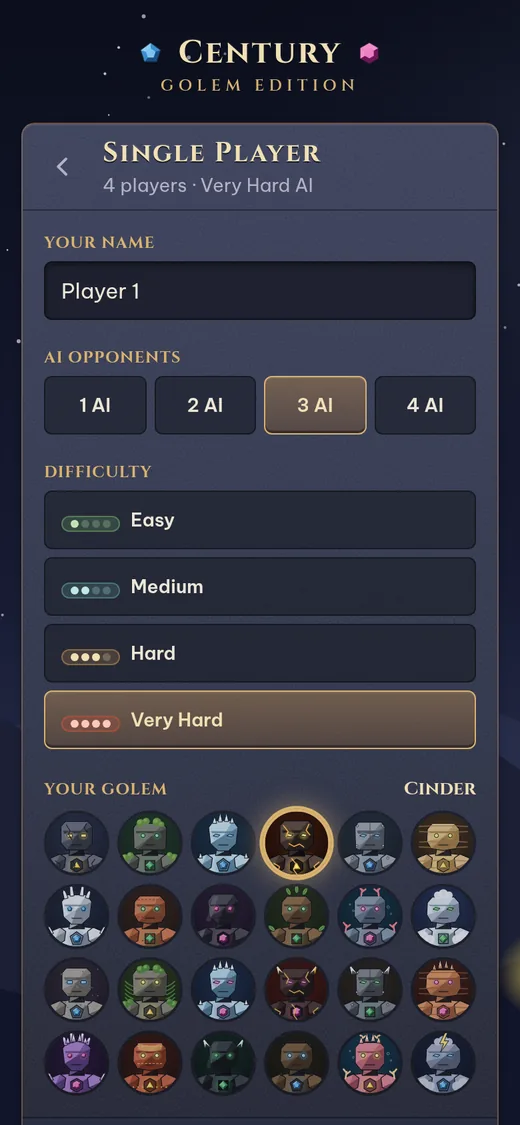
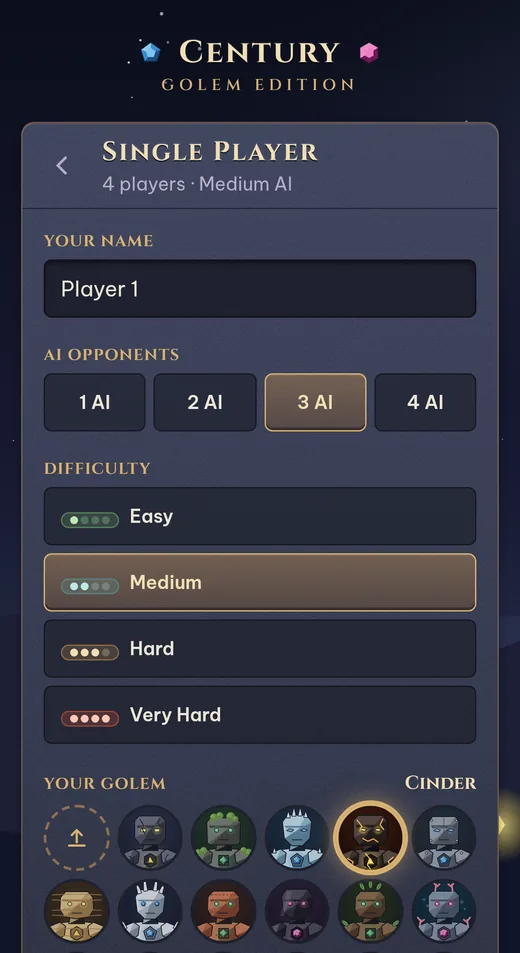
docs(readme): phone section with current screenshots and use cases

diff --git a/README.md b/README.md
@@ -34,7 +34,7 @@ Play solo against 1–4 AI opponents or with up to 5 friends, right in the brows
 <img alt="Status: live" src="https://img.shields.io/badge/status-live-22c55e?style=flat-square"/>
 </p>
 
-<p><a href="#-features">Features</a> • <a href="#-screenshots">Screenshots</a> • <a href="#-how-to-play">How to play</a> • <a href="#-quick-start">Quick start</a> • <a href="#-architecture">Architecture</a> • <a href="#-configuration">Configuration</a> • <a href="#-operations">Operations</a> • <a href="#-credits--disclaimer">Credits</a></p>
+<p><a href="#-features">Features</a> • <a href="#-screenshots">Screenshots</a> • <a href="#-on-your-phone">On your phone</a> • <a href="#-how-to-play">How to play</a> • <a href="#-quick-start">Quick start</a> • <a href="#-architecture">Architecture</a> • <a href="#-configuration">Configuration</a> • <a href="#-operations">Operations</a> • <a href="#-credits--disclaimer">Credits</a></p>
 
 <img src="docs/assets/screenshots/board.webp" alt="Desktop board in the Stone &amp; Crystal style: player plaques with points, the market and golem rows with the cards you can take glowing, and your hand with the Your turn ribbon" width="100%"/>
 
@@ -66,11 +66,12 @@ Play solo against 1–4 AI opponents or with up to 5 friends, right in the brows
 - **One "Stone & Crystal" look** on every screen: carved-stone panels, parchment popups, bronze buttons, a night-mountain backdrop
 - **Colour-blind friendly crystals**: each colour has its own shape (▲ yellow, ◆ green, ⬟ blue, ⬢ pink)
 - **Helpful board**: cards you can take or claim glow, hovering (or tapping on a phone) shows what a card does, popups pick the cheapest crystals for you and warn before you go over 10
-- **Phone-first mobile layout** (portrait and landscape): big touch targets, tap a card to see it and act, safe areas for notches
+- **Made for phones** (portrait and landscape): the **whole game on one screen** with every player in turn order (who opens and closes the round, and where you sit), and nothing scrolls except your own hand; tap any card to see it large and act. See [📱 On your phone](#-on-your-phone)
+- **See what everyone just did**: on a phone, an opponent's card pops up under their chip as they play it; tap the chip for their last moves and the cards they played since their last rest. The activity timeline shows the last 30 moves with card thumbnails, next to the chat
 - **24 original golem avatars** drawn for this project; AI opponents wear random ones and are named after them (Basalt, Mossback, Rime…)
 - **Your own picture as avatar** in both modes: pick an image (≤ 5 MB), drag/zoom it into the circle; it is shrunk to 256 px in the browser, re-encoded on the server (metadata removed) and **deleted with the room** — never stored
 - **Undo** an overflowing card play from the discard popup; **reconnect banner** keeps the board on screen if the connection drops
-- **Sound effects** for your turn, plays, purchases, golem claims, rests, the last round and game over
+- **Sound effects** for your turn, plays, purchases, golem claims, rests, the last round and game over, and a **victory celebration** with a fanfare when you win
 
 </td>
 </tr>
@@ -101,16 +102,67 @@ Play solo against 1–4 AI opponents or with up to 5 friends, right in the brows
 
 <table>
 <tr>
-<td align="center" width="50%"><img src="docs/assets/screenshots/menu.webp" alt="Main menu: the Century wordmark over night mountains and two stone tiles, Single Player and Multiplayer"/><br/><sub><b>Main menu</b>: Single Player or Multiplayer</sub></td>
-<td align="center" width="25%"><img src="docs/assets/screenshots/difficulty.webp" alt="Single-player lobby on a phone: name, number of AIs, difficulty with level dots and the golem avatar grid"/><br/><sub><b>Lobby</b>: 1–4 AIs, Easy → Very Hard, pick a golem</sub></td>
-<td align="center" width="25%"><img src="docs/assets/screenshots/mobile.webp" alt="Mobile board: player chips, Your turn banner, swipeable golem row, market and the hand at the bottom"/><br/><sub><b>Mobile</b>: the whole board on a phone</sub></td>
-</tr>
-<tr>
-<td align="center"><img src="docs/assets/screenshots/details.webp" alt="Hovering a market card shows a stone popover with the card large, its trade and what it costs to take"/><br/><sub><b>Card details</b> on hover (desktop)</sub></td>
-<td align="center"><img src="docs/assets/screenshots/popup.webp" alt="Place Crystals popup on parchment with the cheapest crystals already chosen"/><br/><sub><b>Buying</b>: cheapest crystals pre-picked</sub></td>
-<td align="center"><img src="docs/assets/screenshots/mobile-sheet.webp" alt="On a phone, tapping a golem opens a sheet with the card, its cost, points and coin, and a Claim button"/><br/><sub><b>Tap a card</b> to see it and act</sub></td>
+<td align="center" width="34%"><img src="docs/assets/screenshots/menu.webp" alt="Main menu: the Century wordmark over night mountains and two stone tiles, Single Player and Multiplayer"/><br/><sub><b>Main menu</b>: Single Player or Multiplayer</sub></td>
+<td align="center" width="33%"><img src="docs/assets/screenshots/details.webp" alt="Hovering a market card shows a stone popover with the card large, its trade and what it costs to take"/><br/><sub><b>Card details</b> on hover (desktop)</sub></td>
+<td align="center" width="33%"><img src="docs/assets/screenshots/popup.webp" alt="Place Crystals popup on parchment with the cheapest crystals already chosen"/><br/><sub><b>Buying</b>: cheapest crystals pre-picked</sub></td>
 </tr>
 </table>
+
+## 📱 On your phone
+
+The phone layout was tuned on an **iPhone 15 Pro in Safari**, including the floating toolbar of iOS 26, and is also checked
+at Android sizes in Chrome. **The whole game fits one screen**: the top bar, every player in turn order (you included), the golems,
+the market and your hand. Only your
+own hand scrolls, sideways. Card sizes are worked out from the space you can actually see, so nothing hides under the toolbar
+or the notch.
+
+<table>
+<tr>
+<td align="center" width="25%"><img src="docs/assets/screenshots/mobile.webp" alt="Phone board: top bar with round, Your turn 56s, sound and activity buttons; four player chips in turn order numbered 1 to 4, yours second with a bronze number and outline, each with points, golems, cards in hand and played, crystals; five golems and six market cards in one row each, the ones you can take marked with a check; your crystals 4/10, golems, Rest and played buttons above your hand"/><br/><sub><b>Your turn</b>: everyone in turn order, golems, market and hand on one screen</sub></td>
+<td align="center" width="25%"><img src="docs/assets/screenshots/mobile-moves.webp" alt="While an AI thinks, the merchant card another opponent just took pops up under their chip with the word took"/><br/><sub><b>Live moves</b>: the card an opponent just played or took pops up under them</sub></td>
+<td align="center" width="25%"><img src="docs/assets/screenshots/mobile-player.webp" alt="Sheet for opponent Amethyst: points, golems, cards in hand and played, crystals, then Last moves (Took, Claimed a golem, Played, with card pictures and what each card does) and Played since last rest"/><br/><sub><b>Tap an opponent</b>: their last moves and the cards they played since resting</sub></td>
+<td align="center" width="25%"><img src="docs/assets/screenshots/mobile-sheet.webp" alt="Tapping market card 2 opens a sheet with the card large, what it does, the rule to place one crystal on each card to its left, and a Place 1 and take button"/><br/><sub><b>Tap a card</b>: what it does and the one action you can take</sub></td>
+</tr>
+<tr>
+<td align="center"><img src="docs/assets/screenshots/difficulty.webp" alt="Single-player lobby on a phone: name, 1 to 4 AI opponents, difficulty Easy to Very Hard with level dots, and the golem avatar grid with an upload tile for your own picture"/><br/><sub><b>Lobby</b>: 1–4 AIs, Easy → Very Hard, a golem or your own picture</sub></td>
+<td align="center" colspan="2"><img src="docs/assets/screenshots/mobile-landscape.webp" alt="Phone held sideways: top bar, golems and market on the left; the four numbered player chips and your hand on the right"/><br/><sub><b>Sideways</b>: board on the left, opponents and your hand on the right</sub></td>
+<td align="center"><img src="docs/assets/screenshots/mobile-activity.webp" alt="Activity sheet: room ID with a Copy button, a timeline of moves with card thumbnails and what each card does, and a chat box"/><br/><sub><b>Activity</b>: the last 30 moves with cards, chat, room ID</sub></td>
+</tr>
+</table>
+
+| I want to… | On the phone |
+|:--|:--|
+| Know whose turn it is | The top bar says **Your turn** with your seconds left, or *Waiting for …* / *… is thinking*. The player to move glows and their portrait ring pulses; people (not AIs) get a timer ring |
+| See the turn order | Every player, **you included**, sits in one row in the order of play: left to right, each portrait numbered **1** (opens the round) to the last (closes it). Your number is bronze and your chip has a bronze outline. In the last round, players who already had their final turn are dimmed |
+| Check my opponents | Each chip shows **★ points**, golems, cards in hand, cards played and the 4 crystals; chips get denser as the table fills, so all 5 players fit a phone |
+| See what someone just did | Their card pops up under their chip for about 3 seconds (*played*, *took*, *claimed*). Rests show as *"… rested · took back n cards"*. Touch anywhere to dismiss |
+| Look back at a player's moves | **Tap their chip**: their last moves with card pictures and what each card does, every card they played since their last rest (newest first) and their golems |
+| Take a merchant card | Tap it in the Market. On your turn the cards you can take now have a ✓; the ones you can't afford are dimmed with *Place n* (the crystals it needs). The sheet offers **Take** or **Place n & take** |
+| Claim a golem | Tap it: cost, points and the copper/silver coin bonus, then **Claim** |
+| Play a card | Swipe your hand, tap a card: **Play**, **Trade…** (pick ×n) or **Upgrade…** (tap crystals to raise them) |
+| Rest | The **Rest** button in your hand bar (lit once you have played a card) |
+| See my golems or played cards | The golem ★ button and the played-cards button next to Rest |
+| Read all moves, chat, share the room | The 💬 button (top right): timeline, chat and the room ID with **Copy** |
+| Play sideways | Turn the phone: the board on the left, opponents and your hand on the right |
+| Use my own photo | In the lobby, tap the upload tile in the avatar grid, then drag and zoom it into the circle |
+| Mute | The 🔊 button |
+
+<details>
+<summary>How the phone layout is built and checked</summary>
+
+<br/>
+
+- `PhoneShell` measures the board area and `utils/phoneLayout` plans the card sizes: golems 5 in a row, the market 6 in a row,
+  and any space left over goes to your hand (84–160 px tall).
+- The height used is what is **really visible**: the smallest of `innerHeight`, `visualViewport` and `100svh`, in a fixed frame
+  with page scrolling locked. iOS 26 Safari's floating toolbar covers the page, and `100dvh` alone would put your hand under it.
+- Cards get explicit pixel sizes because WebKit draws aspect-ratio cards 0 px wide in some layouts that Chrome handles fine.
+  Notch, Dynamic Island and home-indicator areas are kept clear.
+- Every UI change is checked with [`ui-shots.mjs`](deploy/ui-shots.mjs) (Chrome at phone, landscape and desktop sizes) and
+  [`webkit-shots.cjs`](deploy/webkit-shots.cjs) (Safari's engine at iPhone 15 Pro sizes).
+- Odd layout on a phone? Open the site with **`?vp`** to show what that browser reports for the viewport and safe areas.
+
+</details>
 
 ## 🎲 How to play
 
@@ -222,6 +274,7 @@ DOCKER_BUILDKIT=1 docker compose up -d --build --no-deps server    # redeploy ba
 | [`sanitize-src.sh`](deploy/sanitize-src.sh) | Cleans a new upstream drop: strips foreign config, applies patches, copies the golem avatars and fonts, removes image metadata |
 | [`make-golem-avatars.py`](deploy/make-golem-avatars.py) | Draws the 24 original golem avatars as SVG (12 golems + one variant each); `--preview` writes a contact sheet |
 | [`ui-shots.mjs`](deploy/ui-shots.mjs) `[URL] [DIR]` | Screenshots every screen at desktop, phone and landscape sizes and fails on external requests, console errors, overflow, text < 12 px or touch targets < 44 px |
+| [`webkit-shots.cjs`](deploy/webkit-shots.cjs) `[URL]` | Same idea in Safari's engine (WebKit, iPhone 15 Pro portrait/landscape + Mac): fails if a card renders 0 px wide, a tap does not open the card sheet, or the page scrolls sideways (runs in the Playwright Docker image) |
 | [`ship.sh`](deploy/ship.sh) `web\|server\|all` | Production deploy: builds on a workstation, the phone only packages and restarts |
 | [`strip-image-metadata.py`](deploy/strip-image-metadata.py) | Removes EXIF/XMP metadata from images |
 
@@ -273,7 +326,8 @@ DOCKER_BUILDKIT=1 docker compose up -d --build --no-deps server    # redeploy ba
 - The `session` package has data races reported by `go test -race`.
 - History endpoints (`/api/games`, `/api/events`, …) are public and unauthenticated, and client IDs are guessable
   (deck order of games still being played is hidden).
-- The mobile layout is tested in Chrome's phone emulation; iPhone Safari (dynamic viewport, notch safe areas) has not been checked on a device.
+- The phone layout is checked automatically in Chrome and WebKit and has been played on an iPhone 15 Pro (Safari, iOS 26).
+  Other phones and browsers have had less testing; open the site with `?vp` to see the viewport numbers if something looks off.
 
 ## 🙏 Credits & disclaimer
 
